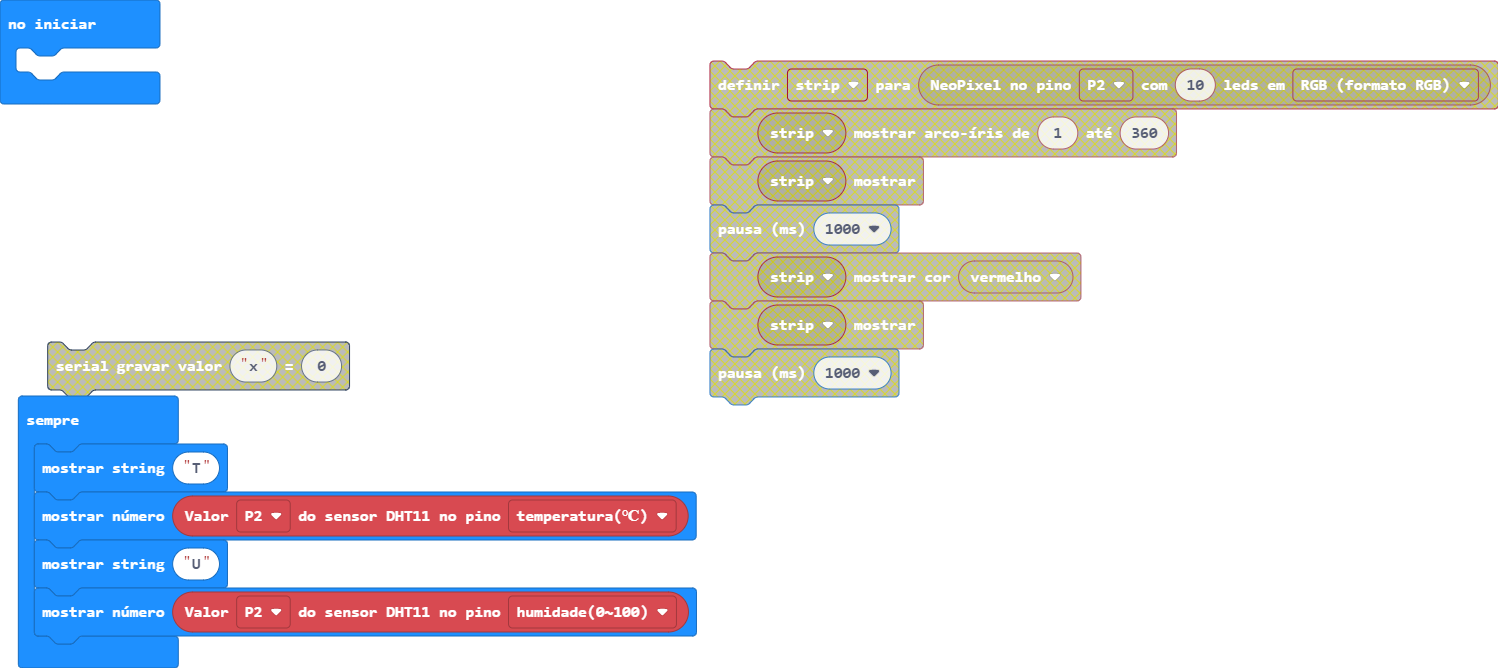
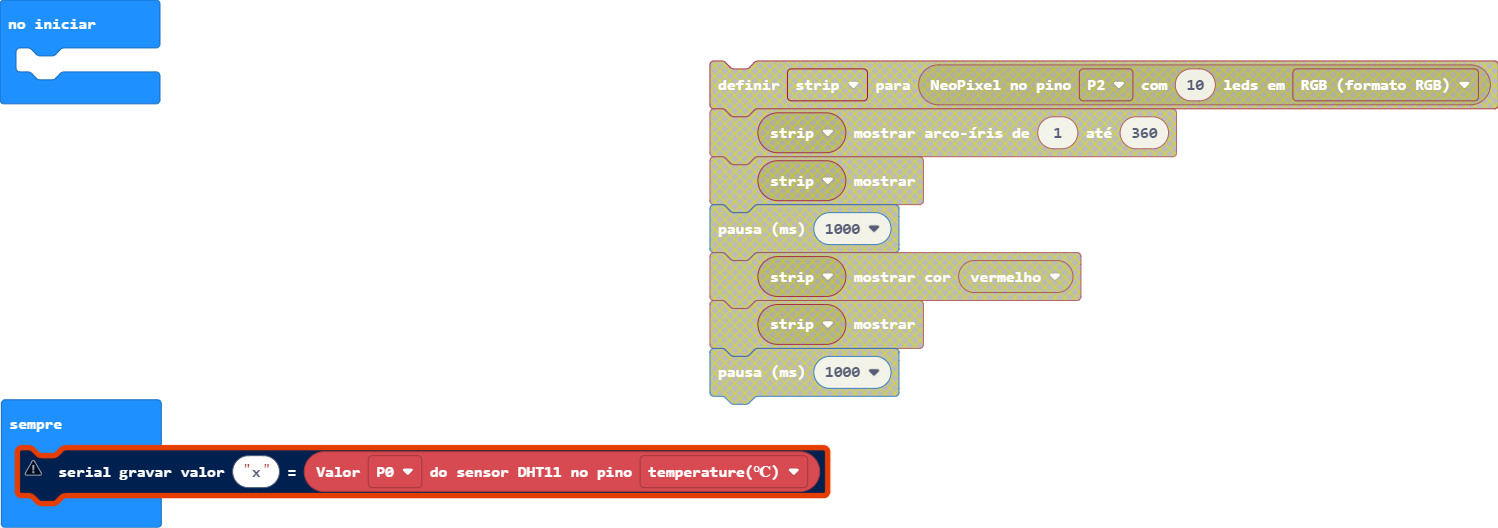
Update main.blocks, main.ts, hackbit.ts

Changed region(s): [[0.0, 0.0909, 1.0, 1.0], [0.0, 0.0303, 0.1228, 0.2121]]

diff --git a/hackbit.ts b/hackbit.ts
@@ -552,7 +552,7 @@ namespace hackbit {
     * Get dht11 temperature and humidity Value
     * @param dht11pin describe parameter here, eg: DigitalPin.P15     
     */
-    //% blockId="hackbitDHT11Read" block="DHT11 sensor %DHT11pin %DHT11Type value"
+    //% blockId="hackbitDHT11Read" block="DHT11 sensor %dht11pin %dht11type value"
     //% DHT11pin.fieldEditor="gridpicker"
     //% DHT11pin.fieldOptions.columns=3
     //% dht11state.fieldEditor="gridpicker"
@@ -560,23 +560,23 @@ namespace hackbit {
     //% dht11state.min=0 dht11state.max=1
     //% subcategory=Sensor  group="Analog" 
     //% color=#D84A51 
-    export function dht11Sensor(DHT11pin: DigitalPin, DHT11Type: DHT11Type): number {
-        pins.digitalWritePin(DHT11pin, 0)
+    export function dht11Sensor(dht11pin: DigitalPin, dht11type: DHT11Type): number {
+        pins.digitalWritePin(dht11pin, 0)
         basic.pause(18)
-        let i = pins.digitalReadPin(DHT11pin)
-        pins.setPull(DHT11pin, PinPullMode.PullUp);
+        let i = pins.digitalReadPin(dht11pin)
+        pins.setPull(dht11pin, PinPullMode.PullUp);
 
-        while (pins.digitalReadPin(DHT11pin) == 1);
-        while (pins.digitalReadPin(DHT11pin) == 0);
-        while (pins.digitalReadPin(DHT11pin) == 1);
+        while (pins.digitalReadPin(dht11pin) == 1);
+        while (pins.digitalReadPin(dht11pin) == 0);
+        while (pins.digitalReadPin(dht11pin) == 1);
 
         let value = 0;
         let counter = 0;
 
         for (let i = 0; i <= 32 - 1; i++) {
-            while (pins.digitalReadPin(DHT11pin) == 0);
+            while (pins.digitalReadPin(dht11pin) == 0);
             counter = 0
-            while (pins.digitalReadPin(DHT11pin) == 1) {
+            while (pins.digitalReadPin(dht11pin) == 1) {
                 counter += 1;
             }
             if (counter > 4) {
@@ -584,7 +584,7 @@ namespace hackbit {
             }
         }
 
-        switch (DHT11Type) {
+        switch (dht11type) {
             case 0:
                 return (value & 0x0000ff00) >> 8
                 break;

diff --git a/main.ts b/main.ts
@@ -1,6 +1,3 @@
 basic.forever(function () {
-    basic.showString("T")
-    basic.showNumber(hackbit.dht11Sensor(DigitalPin.P2, hackbit.DHT11_state.DHT11_temperature_C))
-    basic.showString("U")
-    basic.showNumber(hackbit.dht11Sensor(DigitalPin.P2, hackbit.DHT11_state.DHT11_humidity))
+    serial.writeValue("x", hackbit.dht11Sensor(DigitalPin.P0, hackbit.DHT11_state.DHT11_temperature_C))
 })
